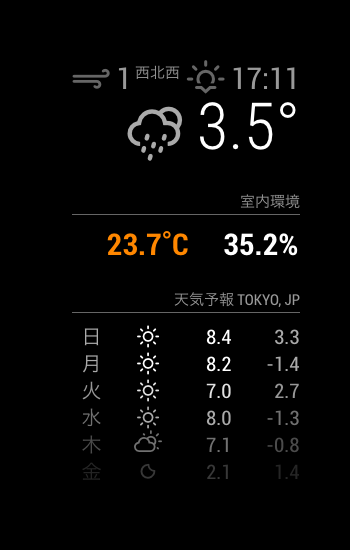
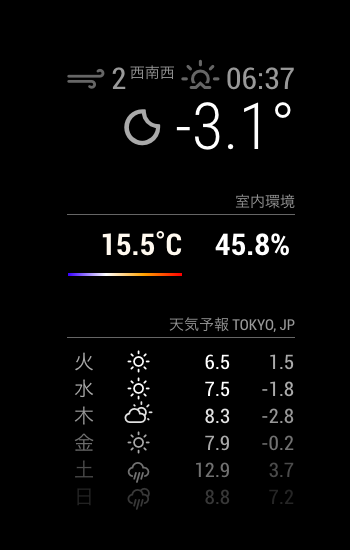
add color bar

diff --git a/MMM-Adafruit-DHT.js b/MMM-Adafruit-DHT.js
@@ -46,6 +46,18 @@ Module.register('MMM-Adafruit-DHT', {
         td.className = 'medium light bright bold';
         td.innerHTML = this.humidity + '%';
         tr.appendChild(td);
+        var td = document.createElement('td');
+        tr.appendChild(td);
+
+        table.appendChild(tr);
+
+        var tr = document.createElement('tr');
+
+        var td = document.createElement('td');
+        td.innerHTML = '<hr style="border: 0; height: 2px; background-image: linear-gradient(to right, #0000FF, #FFFFFF, #FFA500, #FF0000);">';
+        tr.appendChild(td);
+        var td = document.createElement('td');
+        tr.appendChild(td);
 
         table.appendChild(tr);
         wrapper.appendChild(table);
